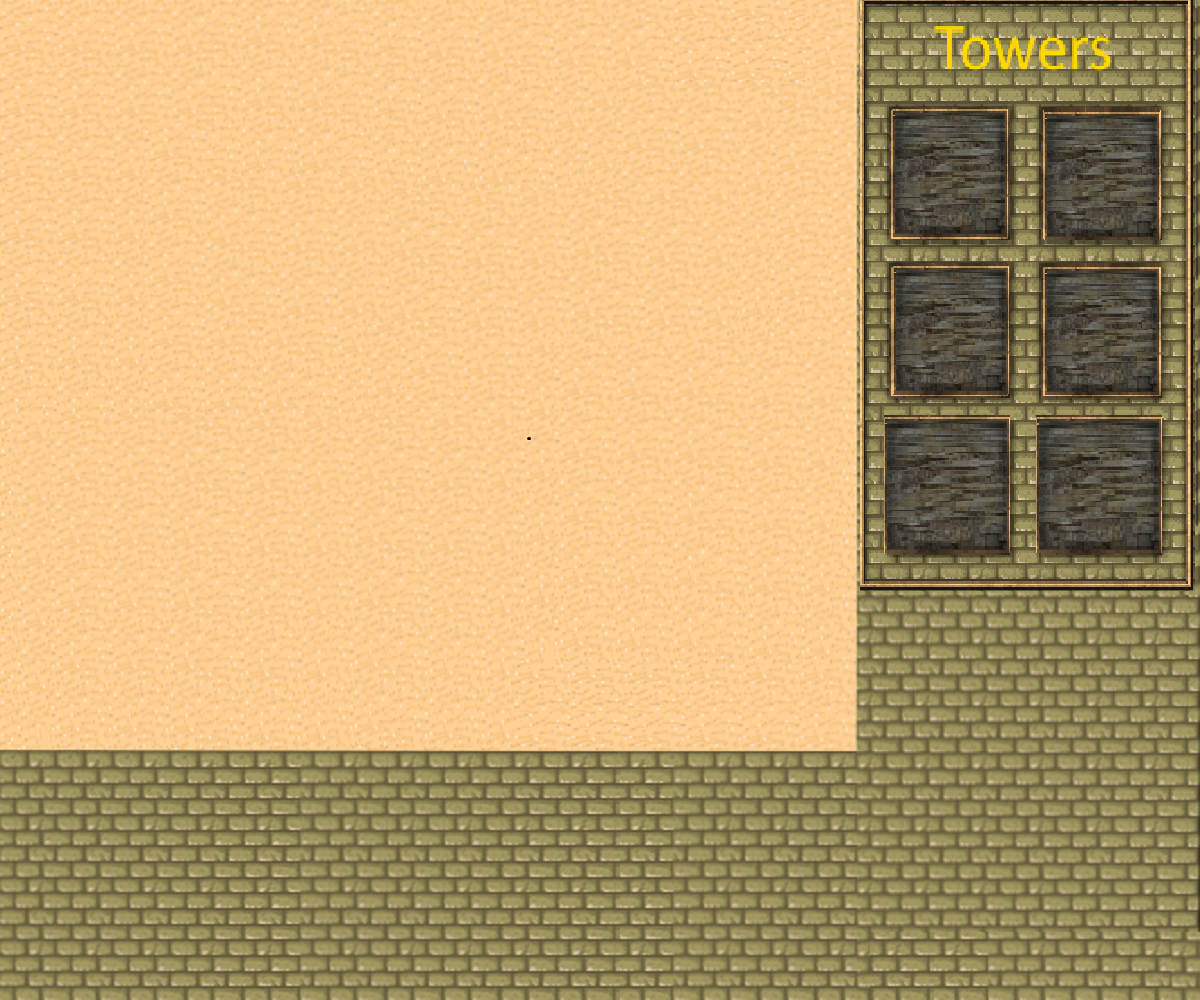
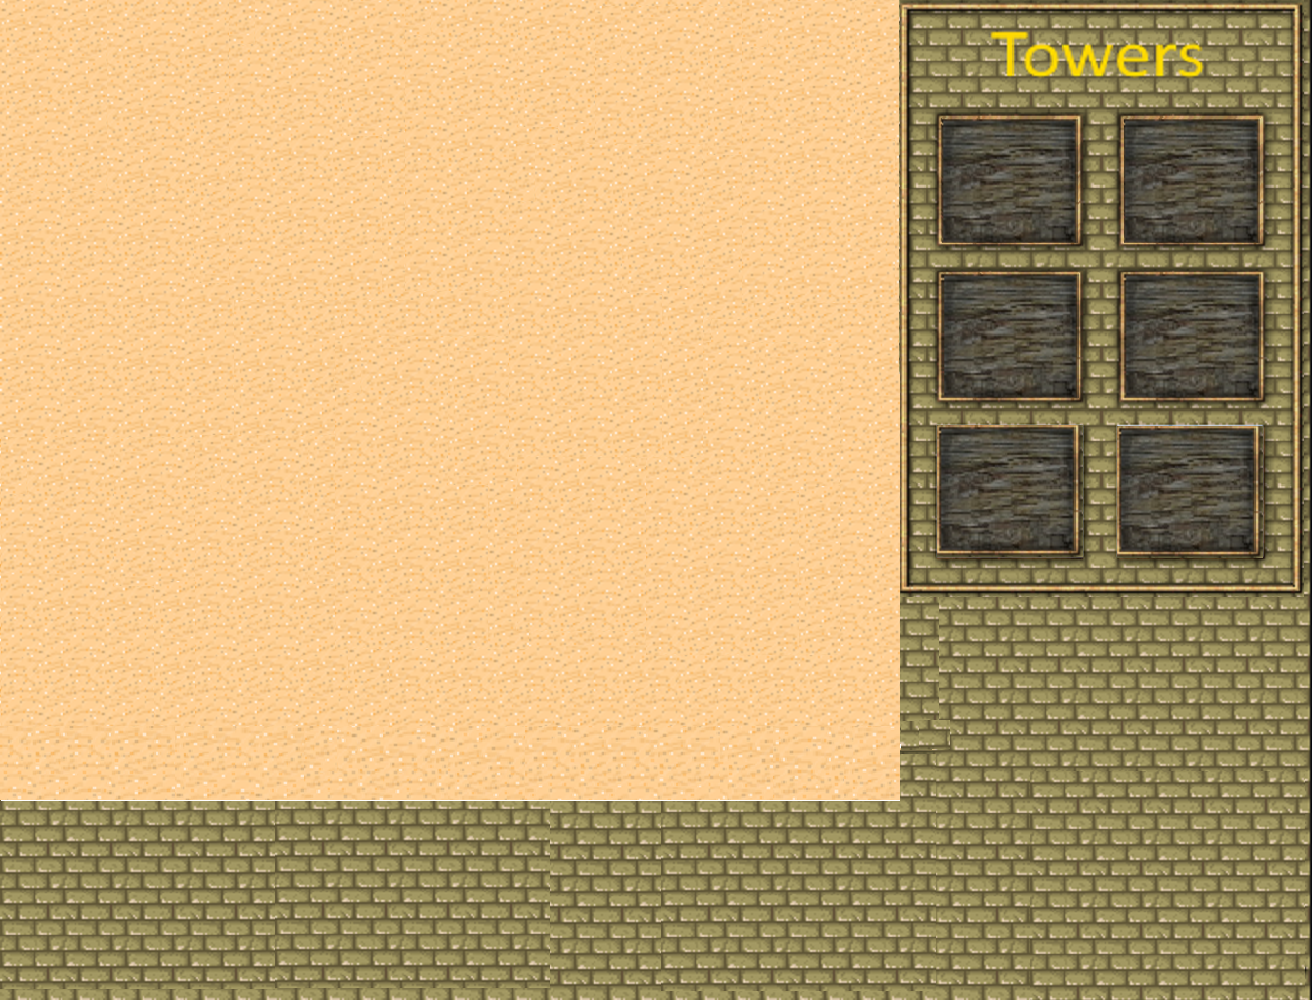
modified background, drag,drop

diff --git a/src/main/java/Main.java b/src/main/java/Main.java
@@ -34,22 +34,22 @@ public class Main extends Application {
         map = new int[][]{
                 {0,0,0,0,0,0,0,0,0,0,0,0,0},
                 {0,0,0,0,0,0,0,0,0,0,0,0,0},
-                {0,0,0,0,0,0,0,0,0,0,0,0,0},
-                {0,0,1,1,1,1,1,1,0,0,0,0,0},
-                {0,0,1,0,0,0,0,1,0,0,0,0,0},
-                {1,1,1,0,0,0,0,1,0,0,0,0,0},
-                {0,0,0,0,0,0,0,1,0,0,0,0,0},
-                {0,0,0,0,0,0,0,1,1,1,1,1,0},
-                {0,0,0,0,0,0,0,0,0,0,0,0,0},
+                {0,2,2,2,2,2,2,2,2,0,0,0,0},
+                {0,2,1,1,1,1,1,1,2,0,0,0,0},
+                {2,2,1,2,2,2,2,1,2,0,0,0,0},
+                {1,1,1,2,0,0,2,1,2,0,0,0,0},
+                {2,2,2,2,0,0,2,1,2,2,2,2,0},
+                {0,0,0,0,0,0,2,1,1,1,1,1,0},
+                {0,0,0,0,0,0,2,2,2,2,2,2,0},
                 {0,0,0,0,0,0,0,0,0,0,0,0,0}
         };
 
 
         final ImageView temp = new ImageView();
-        Image image = new Image(new FileInputStream("D:\\Java-game\\GameRepository\\src\\main\\images\\Background.PNG"));
+        Image image = new Image(new FileInputStream("D:\\Java-game\\GameRepository\\src\\main\\images\\Background.png"));
         ImageView imageView = new ImageView(image);
         imageView.setFitHeight(1000);
-        imageView.setFitWidth(1200);
+        imageView.setFitWidth(1312);
 
         Image image2 = new Image(new FileInputStream("D:\\Java-game\\GameRepository\\src\\main\\java\\Circle.PNG"));
 
@@ -85,31 +85,75 @@ public class Main extends Application {
         Scene scene = new Scene(group);
         //basic sniper//
 
-        final Image imageBasicSniper = new Image(new FileInputStream("D:\\Java-game\\GameRepository\\src\\main\\images\\BasicTowerGraphic.png"));
-        final ImageView imageViewBasicSniper = new ImageView(imageBasicSniper);
-        imageViewBasicSniper.setX(910);
-        imageViewBasicSniper.setY(130);
+        Image imageBasicSniper = new Image(new FileInputStream("D:\\Java-game\\GameRepository\\src\\main\\images\\BasicTowerGraphic.png"));
+        ImageView imageViewBasicSniper = new ImageView(imageBasicSniper);
+        imageViewBasicSniper.setX(955);
+        imageViewBasicSniper.setY(140);
+        imageViewBasicSniper.setFitHeight(100);
+        imageViewBasicSniper.setFitWidth(100);
         group.getChildren().addAll(imageViewBasicSniper);
 
-        //test tower 2 //
+        //image tower 2 //
         Image imageTower2 = new Image(new FileInputStream("D:\\Java Int2204\\test\\src\\sample\\images\\SniperTowerGraphic.png"));
         ImageView imageViewTower2 = new ImageView(imageTower2);
-        imageViewTower2.setX(1057);
-        imageViewTower2.setY(141);
+        imageViewTower2.setX(1140);
+        imageViewTower2.setY(140);
+        imageViewTower2.setFitHeight(100);
+        imageViewTower2.setFitWidth(100);
         group.getChildren().addAll(imageViewTower2);
+        //image tower3
+        Image imageTower3 = new Image(new FileInputStream("D:\\Java Int2204\\test\\src\\sample\\images\\FreezeTowerGraphic.png"));
+        ImageView imageViewTower3 = new ImageView(imageTower3);
+        imageViewTower3.setX(956);
+        imageViewTower3.setY(297);
+        imageViewTower3.setFitHeight(100);
+        imageViewTower3.setFitWidth(100);
+        group.getChildren().addAll(imageViewTower3);
+        //handle drag and drop//
+        imageViewBasicSniper.setOnMousePressed(new EventHandler<MouseEvent>() {
+            @Override
+            public void handle(MouseEvent event) {
+                dragAndDrop(imageViewBasicSniper,imageView,group);
+            }
+        });
+        imageViewTower2.setOnMousePressed(new EventHandler<MouseEvent>() {
+            @Override
+            public void handle(MouseEvent event) {
+                dragAndDrop(imageViewTower2,imageView,group);
+            }
+        });
+        imageViewTower3.setOnMousePressed(new EventHandler<MouseEvent>() {
+            @Override
+            public void handle(MouseEvent event) {
+                dragAndDrop(imageViewTower3,imageView,group);
+            }
+        });
 
+        Image imageSelect = new Image(new FileInputStream("D:\\Java Int2204\\test\\src\\sample\\images\\TileSelectGraphic.png"));
+        ImageView imageViewSelect = new ImageView(imageSelect);
+
+
+        scene.setOnMouseClicked(new EventHandler<MouseEvent>() {
+            @Override
+            public void handle(MouseEvent event) {
+                imageViewSelect.setX(event.getX()- (event.getX()%100));
+                imageViewSelect.setY(event.getY()-(event.getY()%100));
+                imageViewSelect.setFitHeight(100);
+                imageViewSelect.setFitWidth(100);
+                group.getChildren().add(imageViewSelect);
+            }
+
+        });
 
 
         primaryStage.setResizable(true);
         primaryStage.setTitle("Tower Defense");
         primaryStage.setScene(scene);
         primaryStage.setHeight(1000);
-        primaryStage.setWidth(1200);
+        primaryStage.setWidth(1312);
         primaryStage.show();
 
         System.out.println(primaryStage.getWidth() + " " + primaryStage.getHeight());
-        dragAndDrop(imageViewBasicSniper,imageView,group);
-        dragAndDrop(imageViewTower2,imageView,group);
         //gameController.start();s
         new AnimationTimer() {
 
@@ -133,48 +177,42 @@ public class Main extends Application {
 
                 content.putImage(source.getImage());
                 db.setContent(content);
-
                 event.consume();
             }
         });
-        ImageView temp = new ImageView();
-        target.setOnDragOver(new EventHandler<DragEvent>() {
-            @Override
-            public void handle(DragEvent event) {
-                Dragboard db = event.getDragboard();
-                if (db.hasImage()) {
-                    event.acceptTransferModes(TransferMode.COPY_OR_MOVE);
+
+            ImageView temp = new ImageView();
+            target.setOnDragOver(new EventHandler<DragEvent>() {
+                @Override
+                public void handle(DragEvent event) {
+                    Dragboard db = event.getDragboard();
+                    if (db.hasImage()) {
+                        event.acceptTransferModes(TransferMode.COPY_OR_MOVE);
+                    }
+
+                    event.consume();
                 }
-
-                event.consume();
-            }
-        });
-
-
-        target.setOnDragDropped(new EventHandler<DragEvent>() {
-            @Override
-            public void handle(DragEvent event) {
-                Dragboard db = event.getDragboard();
-                boolean success = false;
-                if (db.hasImage()) {
-                    temp.setImage(source.getImage());
-                    temp.setX(event.getX()-65);
-                    temp.setY(event.getY()-40);
-                    group.getChildren().addAll(temp);
-                    success = true;
-                    db = null;
+            });
+            target.setOnDragDropped(new EventHandler<DragEvent>() {
+                @Override
+                public void handle(DragEvent event) {
+                    Dragboard db = event.getDragboard();
+                    boolean success = false;
+                    if (db.hasImage()) {
+                        temp.setImage(source.getImage());
+                        temp.setX(event.getX()- (event.getX()%100));
+                        temp.setY(event.getY()-(event.getY()%100));
+                        temp.setFitHeight(100);
+                        temp.setFitWidth(100);
+                        group.getChildren().addAll(temp);
+                        success = true;
 
 
+                    }
+                    event.setDropCompleted(success);
+                    event.consume();
                 }
-                event.setDropCompleted(success);
-                event.consume();
-            }
-        });
-        target.setOnDragEntered((DragEvent event) -> {
-            if (event.getGestureSource() != temp && event.getDragboard().hasImage()) {
-                temp.setImage(source.getImage());
-            }
-            event.consume();
-        });
+            });
+
     }
 }

diff --git a/src/main/java/Enemy.java b/src/main/java/Enemy.java
@@ -25,8 +25,8 @@ public class Enemy extends GameEntity {
             enemyImage.setX(enemyImage.getX()+1);
             int X=(int) (enemyImage.getX());
             int Y=(int) (enemyImage.getY());
-            if((X+1)%100!=0)
-                if(path[(int)(Y)/100][(int)((X+1)/100)+1]==0)
+            if((X+1)%100== 1 )
+                if(path[(int)(Y)/100][(int)((X+1)/100)+1] != 1)
                 {
 
                     moveX=false;
@@ -51,7 +51,7 @@ public class Enemy extends GameEntity {
                 int X=(int) (enemyImage.getX());
                 int Y=(int) (enemyImage.getY());
                 if((Y-1)%100!=0)
-                    if(path[(int)(Y-1)/100][(int)(X)/100]==0){
+                    if(path[(int)(Y-1)/100][(int)(X)/100] !=1){
                         moveX=true;
                     }
 
@@ -61,7 +61,7 @@ public class Enemy extends GameEntity {
                 int X=(int) (enemyImage.getX());
                 int Y=(int) (enemyImage.getY());
                 if((Y+1)%100!=0)
-                    if(path[(int)((Y+1)/100)+1][(int)(X)/100]==0)
+                    if(path[(int)((Y+1)/100)+1][(int)(X)/100]!= 1)
                     {
                         moveX=true;
                         //System.out.println(enemyImage.getX()+" "+enemyImage.getY());

diff --git a/src/main/java/Tower.java b/src/main/java/Tower.java
@@ -1,2 +1,10 @@
+import javax.swing.text.html.ImageView;
+import java.awt.event.MouseEvent;
+
 public class Tower extends GameTile {
+    private ImageView towerImageView;
+    public ImageView getTowerImageView(){
+        return this.towerImageView;
+    }
+
 }
